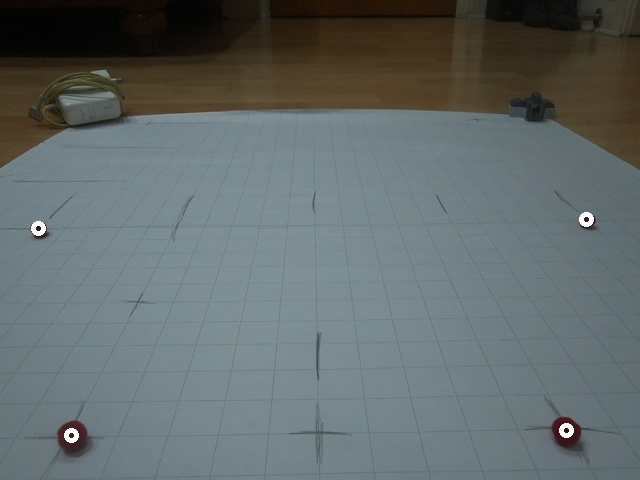
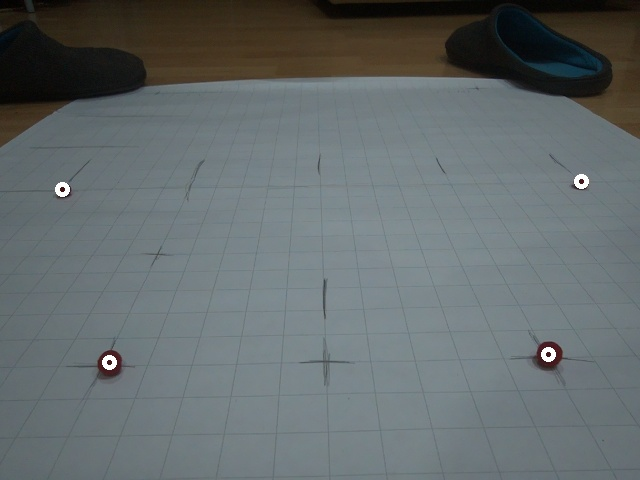
new homography. Press front of case downwards, then left of case for the same angle every time

diff --git a/project.py b/project.py
@@ -24,7 +24,7 @@ pi = math.pi
 wheel_radius = 2.8 # cm
 wheel_distance = 14.25 # cm
 max_acceleration = wheel_radius * 9 * pi # cms^(-2)
-max_velocity = 0.53 * max_acceleration # cms^(-1)
+max_velocity = 0.45 * max_acceleration # cms^(-1)
 floor_modifier_move = 1.02 # 1.02 = hard floor, ? = carpet
 floor_modifier_rotate = 1.08 # 1.08 = hard floor, ? = carpet
 
@@ -34,9 +34,9 @@ camera_homography_close = np.array([
 	(0.00026732, 0.0030178, 1)], dtype = float)
 
 camera_homography_far = np.array([
-	( 1.89262936e-01,  5.69764586e-02, -6.73290016e+01),
-	(-3.70292742e-03, -1.68209037e-01,  1.31282103e+02),
-	( 2.50165420e-05,  3.94712742e-03,  1.00000000e+00)], dtype = float)
+	( 3.27608488e-01, -1.22650295e-02, -1.03846813e+02),
+	(-7.21019208e-03, -1.47772323e-01,  1.99606651e+02),
+	( 1.42430594e-04,  1.71995713e-02,  1.00000000e+00)], dtype = float)
 
 # x1: float (cm)
 # y1: float (cm)
@@ -218,7 +218,7 @@ def dynamicWindowApproach():
 		obstacles = []
 		starttime = time.time()
 
-		x_target, y_target = (150, 0) # We identify static target
+		x_target, y_target = (112, 0) # We identify static target
 
 		while True:
 			#obstacles = []
@@ -293,7 +293,7 @@ def dynamicWindowApproach():
 			print("vl: " + str(velocity_l_chosen) + ", vr: " + str(velocity_r_chosen))
 			velocity_l_start = velocity_l_chosen
 			velocity_r_start = velocity_r_chosen
-			print("current position: (x" + str(x_start) + ", y" + str(y_start) + ", theta" + str(theta_start) + ")")
+			print("current position: (x" + str(x_start) + ", y" + str(y_start) + ", theta" + str(theta_start * 180 / pi) + ")")
 			x_start, y_start, theta_start = predictMovement(velocity_l_start, velocity_r_start, x_start, y_start, theta_start, delta_time)
 			end_calc = time.time()
 			calc_time = end_calc - start_calc
@@ -414,10 +414,10 @@ def colourTest():
 	cv2.destroyAllWindows()
 
 def calculateHomography():
-	(x1, y1, u1, v1) = (20, 40, 587, 220)
-	(x2, y2, u2, v2) = (-20, 40, 38, 229)
-	(x3, y3, u3, v3) = (10, 20, 566, 431)
-	(x4, y4, u4, v4) = (-10, 20, 72, 436)
+	(x1, y1, u1, v1) = (20, 40, 581, 182)
+	(x2, y2, u2, v2) = (-20, 40, 63, 190)
+	(x3, y3, u3, v3) = (10, 20, 549, 354)
+	(x4, y4, u4, v4) = (-10, 20, 109, 363)
 
 	A = np.array([[x1, y1, 1, 0, 0, 0, -u1 * x1, -u1 * y1],
 	              [0, 0, 0, x1, y1, 1, -v1 * x1, -v1 * y1],
@@ -450,7 +450,7 @@ dynamicWindowApproach()
 """
 try:
 	#print("All good!")
-	calculateHomography()
+#	calculateHomography()
 #	enableCamera()
 #	colourTest()
 #	dynamicWindowApproach()
